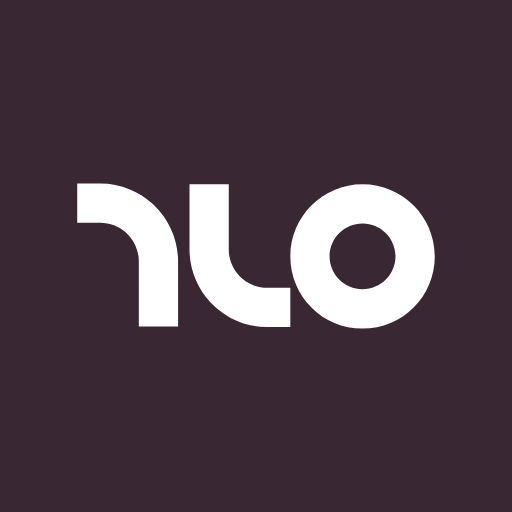
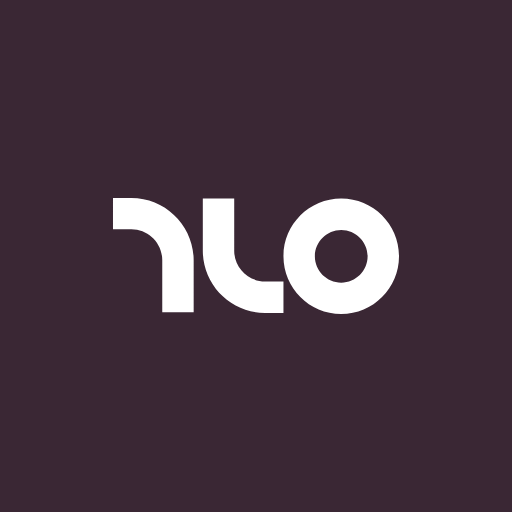
Tilo rename: compliance and design follow-ups
- One mauve, #CD7FAE (Benn): favicon light mode and the Logo-On-Light master.
- Padded maskable icon (mark at 80%) so Android's circle crop clears it (Benn).
- Privacy and cookie policies say Tilo was called Tali at tali.fit; privacy says
  data saved at the old address stays in that browser; all legal dates 2026-11-05;
  legal fixtures regenerated; tests follow.
- Register: rename note and item 48; consent versions unchanged, with the reason
  beside CONSENT_VERSIONS (compliance).
- SW cache tali-v125.

Claude-Session: https://claude.ai/code/session_01R7DUEa4dQiYgBjSNgfmdCp

Changed region(s): [[0.2188, 0.3438, 0.875, 0.6562], [0.125, 0.3438, 0.3125, 0.4375]]

diff --git a/src/core/legal/privacy.ts b/src/core/legal/privacy.ts
@@ -37,11 +37,12 @@ export function privacyPolicy({ onboarding = false, mind = false, suppNames = fa
     // safeguard named on 11 Oct 2026
     // with onboarding on: the conditions and medicines question asked for every goal, and its two
     // settings (protein at the everyday amount, or a capped range), 24 Oct 2026
-    updated: onboarding ? '2026-10-24' : products ? '2026-10-11' : mind ? '2026-10-10' : '2026-10-09',
+    updated: '2026-11-05',
     intro:
       `This explains what Tilo collects, why, who else handles it and the rights you have. It covers the Tilo app ` +
       `(app.tilo.fit) and the Tilo website (www.tilo.fit). Tilo is run by ${who()} ("we", "us"). We are the controller ` +
-      `of your personal data under the UK GDPR, the Data Protection Act 2018 and, for people in the EU, the EU GDPR.`,
+      `of your personal data under the UK GDPR, the Data Protection Act 2018 and, for people in the EU, the EU GDPR. ` +
+      `Tilo was called Tali until November 2026, at app.tali.fit and www.tali.fit; nothing about how we handle your data changed with the name.`,
     sections: [
       {
         h: 'Who we are',
@@ -245,7 +246,7 @@ export function privacyPolicy({ onboarding = false, mind = false, suppNames = fa
                 `Products on the shared list are kept for as long as the list exists, unless we remove them after a report or a check. Because nothing links them to you, deleting your account doesn't remove them, and we can't find the ones you added. Products still waiting on your phone are removed if you turn sharing off, withdraw consent for health data, or someone else signs in on that phone.`,
               ]
             : []),
-          `Data on your device stays until you delete it in the app, clear your browser data or remove Tilo.`,
+          `Data on your device stays until you delete it in the app, clear your browser data or remove Tilo. Anything the app saved in your browser at the old address (app.tali.fit) stays in that browser until you remove it there or clear your browser data.`,
           `Early access emails are kept until we've invited you and early access has ended, or until you ask to be removed, whichever is sooner.`,
           `Emails you send us are kept only as long as needed to deal with them.`,
         ],

diff --git a/src/core/legal/terms.ts b/src/core/legal/terms.ts
@@ -7,7 +7,7 @@ const who = () => fact('controller', 'legal name')
  * review first (cancellation rights, subscription rules, app store terms).
  * The setup-questions paragraph is gated on `onboarding` (ONBOARDING_ENABLED, src/data/onboardingFlag.ts)
  * and the Mind paragraph on `mind` (WELLBEING_ENABLED): `npm run legal:html` publishes with both
- * flags. With both off, the text matches the page live on www.tilo.fit (checked 2026-10-10), so the
+ * flags. With both off, the text matches the page live on www.tali.fit (checked 2026-10-10, before the rename to Tilo), so the
  * date stays; with onboarding on and Mind off, it's main's as of 2026-10-09
  * (scripts/fixtures-legal-onboarding.json). Label photos and the shared product list are gated on
  * `products` (LABEL_SCAN_ENABLED): the licence for shared products, its fair-use lines and the
@@ -20,7 +20,7 @@ export function termsOfUse({ onboarding = false, mind = false, products = false 
     // (MIND_REVIEWED on by default since 10 Oct 2026, compliance the same day), so the not-therapy
     // line covers them; a VITE_MIND_REVIEWED=0 build over-describes, as the privacy policy does
     // with onboarding on: the setup questions also decide how much protein Tilo shows, 24 Oct 2026
-    updated: onboarding ? '2026-10-24' : mind || products ? '2026-10-10' : '2026-09-28',
+    updated: '2026-11-05',
     intro:
       `These terms are the agreement between you and ${who()} ("we", "us") for using the Tilo app and website. ` +
       `${who()} is registered in England and Wales, company number ${fact('companyNumber', 'company number')}, ` +

diff --git a/scripts/test-core.ts b/scripts/test-core.ts
@@ -2110,8 +2110,8 @@ function legalOnboardingGate(): void {
     ['no option means off', text(privacyPolicy()) === text(off.privacy) && text(termsOfUse()) === text(off.terms) && text(cookiePolicy()) === text(off.cookies)],
     ['off: no onboarding-only wording' + (leaks.length ? ` (${leaks.join(', ')})` : ''), !leaks.length],
     ['off with Mind on: no onboarding-only wording' + (leaksMind.length ? ` (${leaksMind.join(', ')})` : ''), !leaksMind.length],
-    ['off: dates (privacy 2026-10-09, terms and cookies 2026-09-28)', off.privacy.updated === '2026-10-09' && off.terms.updated === '2026-09-28' && off.cookies.updated === '2026-09-28'],
-    ['off with Mind on: dates (privacy and terms 2026-10-10, cookies 2026-10-09)', offMind.privacy.updated === '2026-10-10' && offMind.terms.updated === '2026-10-10' && offMind.cookies.updated === '2026-10-09'],
+    ['off: dates (all 2026-11-05, the Tilo rename)', off.privacy.updated === '2026-11-05' && off.terms.updated === '2026-11-05' && off.cookies.updated === '2026-11-05'],
+    ['off with Mind on: dates (all 2026-11-05, the Tilo rename)', offMind.privacy.updated === '2026-11-05' && offMind.terms.updated === '2026-11-05' && offMind.cookies.updated === '2026-11-05'],
     ['off: the live passages stay (weekly review, reminders, lighter options, withdrawal, under-18 stop)', live.every((w) => text(off.privacy).includes(w))],
     ['off with Mind on: the live passages stay', live.every((w) => text(offMind.privacy).includes(w))],
     ['off with Mind on: the Mind passages are there (privacy, cookies, terms)',

diff --git a/src/core/legal/website.ts b/src/core/legal/website.ts
@@ -16,9 +16,10 @@ const company = () =>
 export function sitePrivacy(): LegalDoc {
   return {
     title: 'Privacy policy',
-    updated: '2026-09-24',
+    updated: '2026-11-05',
     intro:
       `This explains how we handle personal data on the Tilo website (www.tilo.fit), including the early access list. ` +
+      `Tilo was called Tali until November 2026, at www.tali.fit. ` +
       `The Tilo app is still in testing and will have its own, fuller privacy policy here before it opens to the public.`,
     sections: [
       {
@@ -99,7 +100,7 @@ export function sitePrivacy(): LegalDoc {
 export function siteCookies(): LegalDoc {
   return {
     title: 'Cookie policy',
-    updated: '2026-09-24',
+    updated: '2026-11-05',
     intro:
       `This explains the cookies and similar technology used on the Tilo website (www.tilo.fit). The short version: only what's needed to deliver the site and keep it safe. ` +
       `No advertising cookies, no analytics, no tracking. The site is run by ${who()}.`,
@@ -136,7 +137,7 @@ export function siteCookies(): LegalDoc {
 export function siteTerms(): LegalDoc {
   return {
     title: 'Terms and conditions',
-    updated: '2026-09-24',
+    updated: '2026-11-05',
     intro:
       `These terms cover your use of the Tilo website (www.tilo.fit). It is run by ${company()} ("we", "us"). ` +
       `The Tilo app is still in testing and will have its own, fuller terms here before it opens to the public.`,

diff --git a/scripts/wellbeing/legal.ts b/scripts/wellbeing/legal.ts
@@ -12,7 +12,8 @@
    (finding B, C, D). Regenerated 23 Oct 2026 for one deliberate onboarding-on line (ml-e5: the
    medical question asked for every goal, protein shown as a minimum); nothing else differs.
    Regenerated 24 Oct 2026 for the protein split (privacy: the two settings and their dates;
-   terms: "how much protein it shows" and its date), compliance's wording; nothing else differs. Run from scripts/test-wellbeing.ts; returns the number of failures. */
+   terms: "how much protein it shows" and its date), compliance's wording; nothing else differs. Regenerated 5 Nov 2026 for the Tilo rename (Tali to Tilo,
+   tali.fit to tilo.fit, the name-change and old-address lines, dates); nothing else differs. Run from scripts/test-wellbeing.ts; returns the number of failures. */
 import { privacyPolicy } from '@/core/legal/privacy'
 import { termsOfUse } from '@/core/legal/terms'
 import { cookiePolicy } from '@/core/legal/cookies'

diff --git a/src/core/legal/cookies.ts b/src/core/legal/cookies.ts
@@ -18,11 +18,11 @@ import { LEGAL_URLS, MIN_AGE, fact, type LegalDoc } from './index'
 export function cookiePolicy({ onboarding = false, mind = false, products = false }: { onboarding?: boolean; mind?: boolean; products?: boolean } = {}): LegalDoc {
   return {
     title: 'Cookie policy',
-    updated: products ? '2026-10-10' : mind ? '2026-10-09' : '2026-09-28',
+    updated: '2026-11-05',
     intro:
       `This explains the cookies and other storage the Tilo app (app.tilo.fit) and website (www.tilo.fit) use on your device. ` +
       `The short version: we only use what's needed to make them work. No advertising cookies, no analytics, no tracking. ` +
-      `Tilo is run by ${fact('controller', 'legal name')}.`,
+      `Tilo is run by ${fact('controller', 'legal name')}. Tilo was called Tali until November 2026, at app.tali.fit and www.tali.fit.`,
     sections: [
       {
         h: 'Why there is no cookie banner',

diff --git a/src/data/consent.ts b/src/data/consent.ts
@@ -32,6 +32,8 @@ export type ConsentType = (typeof CONSENT_TYPES)[number]
  * first health grant at this version is also the record of those two. After a withdrawal,
  * Profile → Privacy can grant it again (see docs/compliance/README.md).
  */
+// The 5 Nov 2026 rename changed only "Tali" to "Tilo" in these wordings, not the controller, purposes,
+// data or recipients, so the versions stay (compliance; register item 48).
 export const CONSENT_VERSIONS: Record<ConsentType, string> = {
   health: '2026-09-v1',
   ai: '2026-09-v1',

diff --git a/public/sw.js b/public/sw.js
@@ -5,7 +5,7 @@
  * page itself is network-first with a short timeout, so a weak signal never stalls launch.
  * User data never goes through here: it lives on the device (localStorage) and syncs to
  * Supabase (cross-origin, not cached) when online. */
-const CACHE = 'tali-v124'
+const CACHE = 'tali-v125'
 const SHELL = './'
 const NAV_TIMEOUT_MS = 3000
 

diff --git a/docs/compliance/README.md b/docs/compliance/README.md
@@ -7,6 +7,11 @@ professional review the legal texts and this register.
 
 Last reviewed: 2026-10-10. Controller: Gravita Creative Ltd (company 08348225), trading as Tilo.
 
+Name: the product was called Tali (app.tali.fit, www.tali.fit) until the rename to Tilo (item 48).
+The rename replaced the old name in this register and `dpia.md` mechanically, including in dated
+entries: anything recorded before 2026-11-05 as checked "live on www.tilo.fit" or "at
+app.tilo.fit" was checked on www.tali.fit or app.tali.fit under the name Tali.
+
 ## What's in the app
 
 | Requirement | Where |
@@ -642,6 +647,45 @@ Added 2026-09-28 (onboarding wizard review, before `ONBOARDING_ENABLED` goes on)
     claim results for people on prescription weight-loss medicines (ASA/CAP 12, 12.12). Texts
     dated 2026-10-24 in their onboarding-on versions; the published (onboarding-off) texts are
     unchanged.
+
+48. Rename to Tilo (2026-11-05, compliance; branch `rename/tilo`, `docs/plans/rename-tilo.md`).
+    Same controller, purposes, data, processors and transfers; only the product name and the
+    addresses change (www.tilo.fit, app.tilo.fit). Decided: no `CONSENT_VERSIONS` bump. Consent
+    must be informed about who the controller is and what for (Art. 4(11), 7; EDPB Guidelines
+    05/2020 on consent, para. 64), and neither changes, so a yes recorded as `2026-09-v1` (or
+    `2026-10-v1`) to the Tali wording is a yes to the same thing. A change of company (item 15)
+    still needs a bump. Owed before or with the switch:
+    (a) Privacy and cookie policies: while app.tali.fit still serves the app (the hand-over), the
+        policy must cover it (Art. 13): add a line to the privacy intro and the cookie intro, e.g.
+        "Tilo was called Tali until [month year]. Until [date], the app also runs at app.tali.fit,
+        and www.tali.fit sends you here." Bump `updated` on every variant of all three texts to the
+        publish date and regenerate the fixtures; the device-data retention line should say data
+        left at the old address stays in that browser until it is removed there or browser data is
+        cleared.
+    (b) Hand-over at app.tali.fit (security-data, ship-critic): sync first; offer the existing
+        export to anyone with device-only data (declined or paused health consent, unsynced
+        entries), and let them import it at app.tilo.fit; never move device-only health data
+        through the server, a URL or query string (that would be processing without the
+        Art. 9(2)(a) consent they declined); offer "remove this device's log" at the old address
+        before it becomes a redirect; remove the old origin's push subscriptions
+        (`push_subscriptions`) and reminders (Art. 5(1)(c), (e)). Delete account must keep working
+        from both addresses until the end (Art. 17; both origins are allowed in `delete-account`).
+    (c) Tell the testers (a service message about their account, not direct marketing: PECR
+        reg. 22 doesn't apply; ICO direct marketing guidance) in the app at app.tali.fit and by
+        email: the new address, sign in again, switch reminders back on, export device-only data.
+    (d) Early-access list: put the new name in the invite itself (the purpose they agreed to). A
+        separate "we're now Tilo" email should be factual only, with no promotion, and carry the
+        unsubscribe (item 2); anything promotional is marketing under PECR reg. 22 and goes beyond
+        "we use your email for nothing else".
+    (e) Republish all three Legals items (`npm run legal:html`) on the Webflow site under
+        www.tilo.fit as drafts, ship-critic, then Benn publishes; keep 301s from
+        www.tali.fit/legals/* so links in cached apps still reach the policies.
+    (f) ICO fee (item 1): register Gravita Creative Ltd with Tilo as a trading name.
+    (g) Turnstile and Webflow form: allow www.tilo.fit; the cookie list (`_cfuvid`) is unchanged.
+        Supabase Auth emails and the Google OAuth consent screen (item 5) carry the new name and
+        links.
+    (h) Not compliance, but before the name goes public: a trade mark clearance search and filing
+        for Tilo (not legal advice; a trade mark attorney should confirm).
 
 Future changes that need the compliance agent first: any AI feature
 (`docs/plans/ai-platform-plan.md`), analytics or error tracking, email marketing (PECR

diff --git a/CLAUDE.md b/CLAUDE.md
@@ -106,7 +106,7 @@ setting (`prefers-color-scheme`); there is no in-app override.
   `.tile`, `.banner`, `.toast`.
 - **Logo:** the Tilo mark (plum #3A2734; masters in `docs/brand/`: `Logo.svg`, `Logo-Light.svg`, and the
   framed `Logo-On-Mauve.svg`, `Logo-On-Light.svg`). `Tilo-App.svg` is the app icon: plum frame, white mark;
-  `public/favicon.svg` switches to a mauve #CD7FAD frame with a plum mark in light system mode. The PWA PNGs in
+  `public/favicon.svg` switches to a mauve #CD7FAE frame with a plum mark in light system mode. The PWA PNGs in
   `public/` are generated from `Tilo-App.svg`. In the app, `TaliMark` draws the mark in `--mark` (plum on light,
   white on dark).
 
